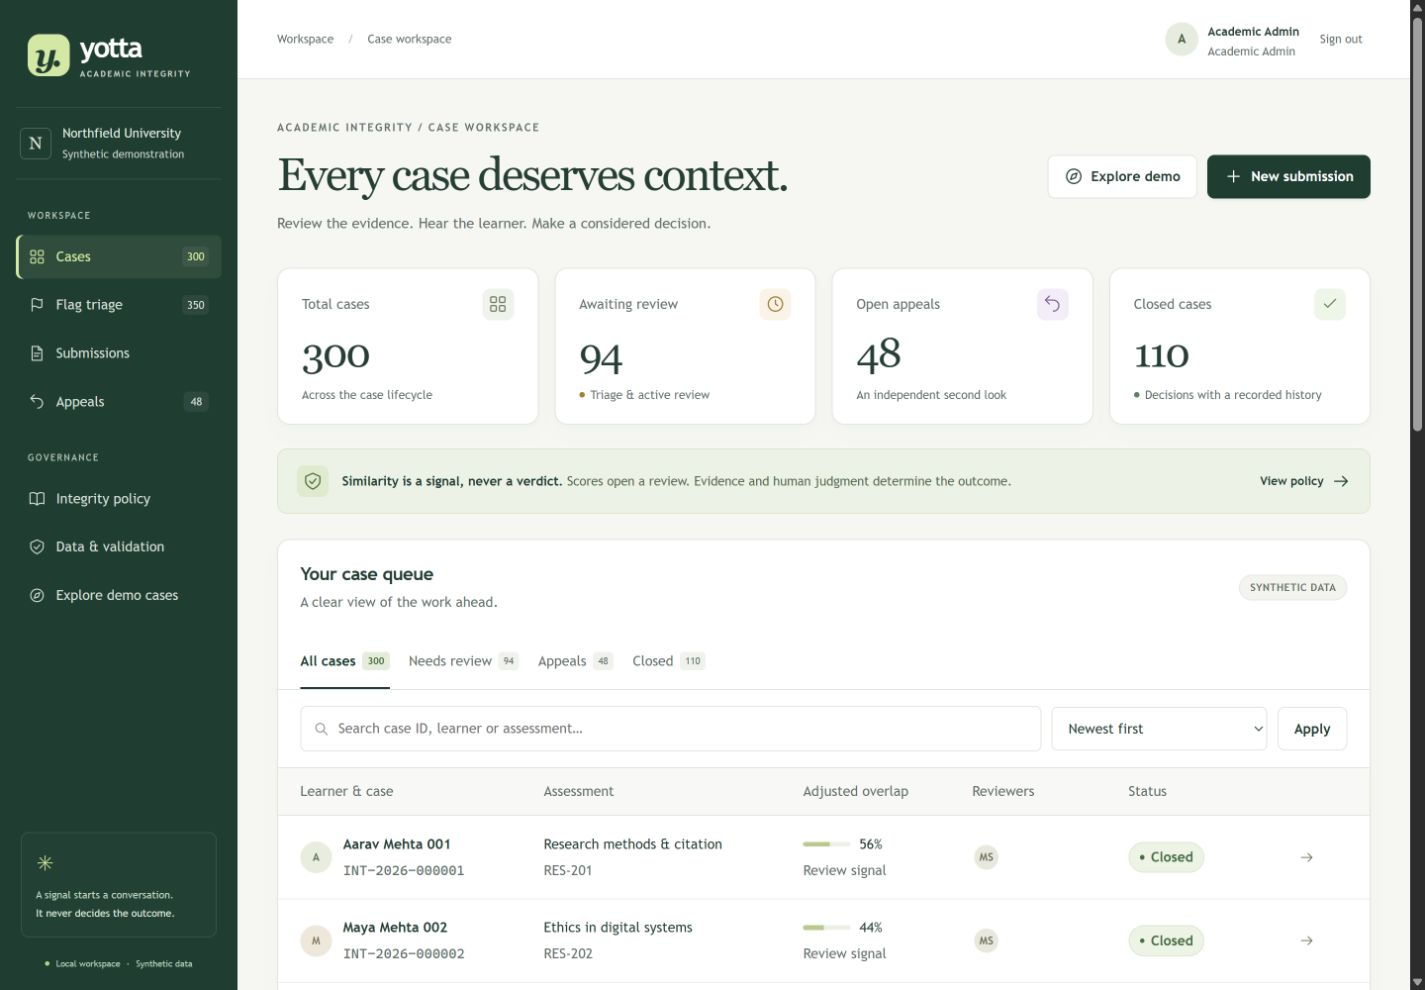
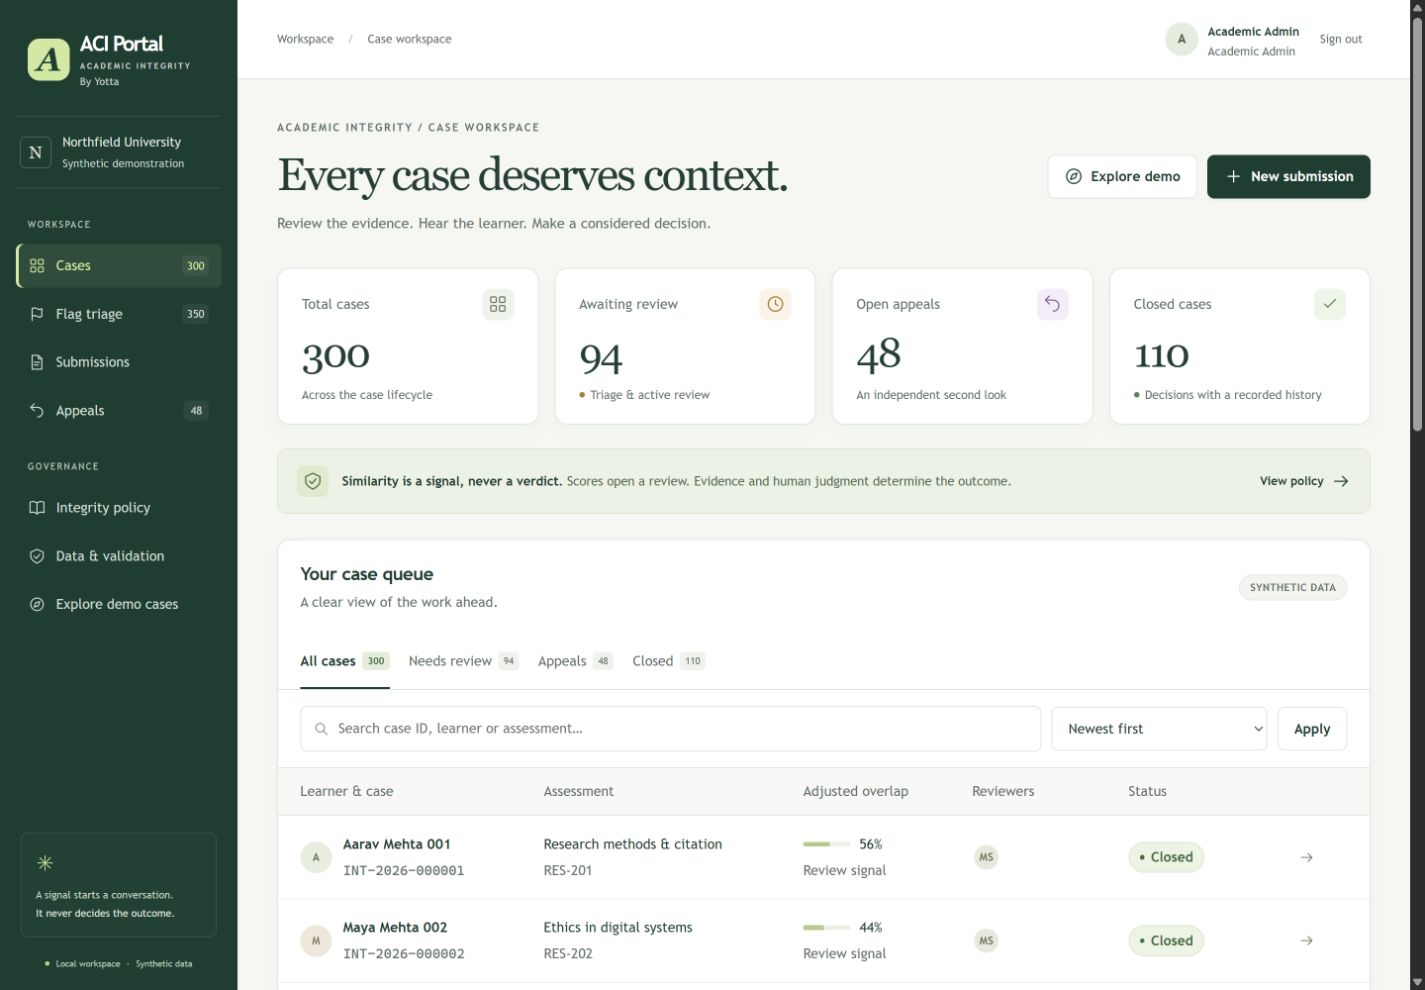
feat: rename application to ACI Portal By Yotta

diff --git a/templates/registration/login.html b/templates/registration/login.html
@@ -1,1 +1,1 @@
-{% extends 'base.html' %}{% block auth_content %}<div class="login-art"><a class="brand" href="{% url 'login' %}"><span class="brand-mark">y.</span><span>yotta<span class="brand-caption">ACADEMIC INTEGRITY</span></span></a><div class="login-statement"><span class="eyebrow">EVIDENCE. CONTEXT. FAIRNESS.</span><h1>Good judgment<br>starts with<br><em>a fair process.</em></h1><p>A thoughtful workspace for reviewing academic integrity, one case at a time.</p><div class="orbit" aria-hidden="true"><span>CONTEXT</span><span>EVIDENCE</span><span>REVIEW</span><b>y.</b></div></div><small>Northfield University · Synthetic demonstration</small></div><div class="login-panel"><div class="login-form"><span class="pill neutral">LOCAL WORKSPACE</span><h2>Welcome to Yotta.</h2><p class="muted">Sign in to your academic integrity workspace.</p><form method="post">{% csrf_token %}{% include 'integrity/fields.html' %}{% if next %}<input type="hidden" name="next" value="{{ next }}">{% endif %}<button class="button primary full" type="submit">Sign in {% include 'integrity/icon.html' with name='arrow' %}</button></form><div class="login-help"><strong>Here to explore the demo?</strong><p>Use <code>academic-admin</code> to start. Your launcher prints generated passwords and saves them in <code>.local/demo-accounts.json</code>.</p><p>Use separate accounts to try reviewer, learner, support, and independent appeal roles.</p></div><span class="fine-print">All records are synthetic. No external services are required.</span></div></div>{% endblock %}
+{% extends 'base.html' %}{% block auth_content %}<div class="login-art">{% include 'integrity/brand.html' with destination='login' %}<div class="login-statement"><span class="eyebrow">EVIDENCE. CONTEXT. FAIRNESS.</span><h1>Good judgment<br>starts with<br><em>a fair process.</em></h1><p>A thoughtful workspace for reviewing academic integrity, one case at a time.</p><div class="orbit" aria-hidden="true"><span>CONTEXT</span><span>EVIDENCE</span><span>REVIEW</span><b>ACI</b></div></div><small>Northfield University · Synthetic demonstration</small></div><div class="login-panel"><div class="login-form"><span class="pill neutral">LOCAL WORKSPACE</span><h2>Welcome to ACI Portal.</h2><p class="muted">Sign in to your academic integrity workspace.</p><form method="post">{% csrf_token %}{% include 'integrity/fields.html' %}{% if next %}<input type="hidden" name="next" value="{{ next }}">{% endif %}<button class="button primary full" type="submit">Sign in {% include 'integrity/icon.html' with name='arrow' %}</button></form><div class="login-help"><strong>Here to explore the demo?</strong><p>Use <code>academic-admin</code> to start. Your launcher prints generated passwords and saves them in <code>.local/demo-accounts.json</code>.</p><p>Use separate accounts to try reviewer, learner, support, and independent appeal roles.</p></div><span class="fine-print">All records are synthetic. No external services are required.</span></div></div>{% endblock %}

diff --git a/templates/base.html b/templates/base.html
@@ -1,11 +1,11 @@
 {% load static %}<!doctype html>
 <html lang="en"><head><meta charset="utf-8"><meta name="viewport" content="width=device-width,initial-scale=1">
-<title>{{ title|default:"Welcome" }} · Yotta</title><meta name="description" content="A considered approach to academic integrity. Local synthetic case-management workspace.">
+<title>{{ title|default:"Welcome" }} · ACI (Academic Integrity) Portal By Yotta</title><meta name="application-name" content="ACI (Academic Integrity) Portal By Yotta"><meta name="description" content="ACI (Academic Integrity) Portal By Yotta. A considered approach to academic integrity. Local synthetic case-management workspace.">
 <link rel="stylesheet" href="{% static 'app.css' %}"><script src="{% static 'app.js' %}" defer></script></head>
 <body><a class="skip-link" href="#main">Skip to content</a>
 {% if user.is_authenticated %}<div class="app-shell">
 <aside class="sidebar" aria-label="Workspace navigation">
-<a class="brand" href="{% url 'cases' %}"><span class="brand-mark" aria-hidden="true">y.</span><span>yotta<span class="brand-caption">ACADEMIC INTEGRITY</span></span></a>
+{% include 'integrity/brand.html' with destination='cases' %}
 <button class="nav-toggle button secondary" type="button" aria-expanded="false" aria-controls="workspace-nav">Menu</button>
 <div class="workspace-label"><span class="workspace-symbol" aria-hidden="true">N</span><span>Northfield University<small>Synthetic demonstration</small></span></div>
 <nav id="workspace-nav" aria-label="Main"><span class="nav-label">WORKSPACE</span>
@@ -21,6 +21,6 @@
 <div class="local-label"><span class="live-dot"></span> Local workspace <span>·</span> Synthetic data</div></div></aside>
 <div class="content-shell"><header class="topbar"><div class="breadcrumbs">Workspace <span>/</span> {{ title }}</div><div class="identity"><span class="avatar">{{ user.username|first|upper }}</span><div><strong>{{ user.first_name|default:user.username }}</strong><small>{{ role_label }}</small></div><form method="post" action="{% url 'logout' %}">{% csrf_token %}<button class="text-button" type="submit">Sign out</button></form></div></header>
 <main id="main" class="main" tabindex="-1">{% for message in messages %}<div class="toast {{ message.tags }}" role="status">{% include 'integrity/icon.html' with name='check' %} {{ message }}</div>{% endfor %}{% block content %}{% endblock %}</main>
-<footer class="page-footer"><span>Yotta · A considered approach to academic integrity.</span><span>Local demo / All records are synthetic</span></footer></div></div>
+<footer class="page-footer"><span>ACI (Academic Integrity) Portal By Yotta</span><span>Local demo / All records are synthetic</span></footer></div></div>
 {% else %}<main id="main" class="auth-main" tabindex="-1">{% block auth_content %}{% endblock %}</main>{% endif %}
 </body></html>

diff --git a/static/app.css b/static/app.css
@@ -1,4 +1,4 @@
-/* Yotta: a warm institutional ledger. All assets are local; no build step. */
+/* ACI Portal By Yotta: a warm institutional ledger. All assets are local. */
 :root {
   --ink: #263e35;
   --forest: #203d32;
@@ -191,6 +191,17 @@ pre {
   font: italic 700 2.05rem Georgia;
   letter-spacing: -0.15em;
   padding-right: 0.3rem;
+}
+.brand-name {
+  font-size: 1.35rem;
+}
+.brand-byline {
+  display: block;
+  margin-top: 0.35rem;
+  font-size: 0.65rem;
+  font-weight: 400;
+  letter-spacing: 0.02em;
+  color: #c2d0c5;
 }
 .brand-caption {
   display: block;

diff --git a/templates/integrity/brand.html b/templates/integrity/brand.html
@@ -1,0 +1,4 @@
+<a class="brand" href="{% url destination %}" aria-label="ACI (Academic Integrity) Portal By Yotta">
+  <span class="brand-mark" aria-hidden="true">A</span>
+  <span class="brand-name">ACI Portal<span class="brand-caption">ACADEMIC INTEGRITY</span><span class="brand-byline">By Yotta</span></span>
+</a>

diff --git a/run.py b/run.py
@@ -58,7 +58,7 @@ def main():
     execute([python, "manage.py", "migrate", "--noinput"], env)
     execute([python, "manage.py", "seed_demo", "--mode", args.mode], env)
     credentials = json.loads((local / "demo-accounts.json").read_text(encoding="utf-8"))
-    print("\nYotta / local synthetic workspace\n", flush=True)
+    print("\nACI (Academic Integrity) Portal By Yotta / local synthetic workspace\n", flush=True)
     for username, password in credentials.items():
         print(f"  {username:18} {password}", flush=True)
     print(f"\nCredentials: {local / 'demo-accounts.json'} (keep private)\n", flush=True)
@@ -71,7 +71,7 @@ if __name__ == "__main__":
     try:
         raise SystemExit(main())
     except KeyboardInterrupt:
-        print("\nYotta stopped. Your data is preserved.")
+        print("\nACI Portal stopped. Your data is preserved.")
     except (subprocess.CalledProcessError, OSError) as exc:
         print(f"\nSetup could not finish: {exc}\nFix the error above and rerun the same command; existing data is preserved.", file=sys.stderr)
         raise SystemExit(1)

diff --git a/docs/ai/PROMPT_HISTORY.md b/docs/ai/PROMPT_HISTORY.md
@@ -57,3 +57,11 @@ User prompt (verbatim):
 > I have analyzed the problem statement and assignment, go through docs and project prompt and start building the project component by component, and document all the thing and keep the repo clean as possible, as I have initialized /Yotta directory added a initial readme file and connected my remote public repository, move all the supporting docs if need to /Yotta, the reviewer will only have access to /Yotta.
 
 AI assistance: implemented the local application and dataset/evaluation tooling in Yotta, consolidated supporting documentation, ran checks and browser verification, and recorded results/limitations in VERIFICATION.md. See AI_USE.md for reliance and candidate-review status. Tool prompts/queries are summarized in IMPLEMENTATION_TOOL_LOG.md; exact tool payloads remain in the chat export and are not fully reproduced here. This record remains partial, with private material visibly redacted above.
+
+## 2026-10-30 - Codex - portal name
+
+User prompt (verbatim):
+
+> Change name to ACI (Academic Integrity) Portal By Yotta, it'll be good
+
+AI assistance: renamed the shared interface brand, login, browser metadata, footer, launcher display text and README. Ran the existing page-render check and Django system check; inspected desktop/phone layouts and refreshed branding screenshots. Repository/database paths remain stable so this display-name change preserves local configuration and records. This remains a partial prompt record; exact tool actions are available in the chat history.

diff --git a/docs/VERIFICATION.md b/docs/VERIFICATION.md
@@ -61,3 +61,7 @@ Interface-polish review scope: Django templates/plain CSS, primary queue/case fl
 Unauthenticated read-only HTTPS request to the configured GitHub repository returned **200**, its expected repository title, and a **Public** label. This verifies existing public access without an authenticated GitHub session. The new implementation is committed locally; it has not been pushed or submitted through the portal in this task.
 
 Still unverified: normal-install bootstrap on Python 3.12/3.13/3.14; macOS/Linux startup; literal network-disconnected workflow (assets/code have no external runtime dependencies, but no network adapter was disabled); dependency-install failure recovery by forced outage; missing-Python/version error simulation; sustained concurrent load; complete browser walkthrough using every role; candidate personal review; complete prompt export reconciliation; final comparison with absent source attachments; remote publication and portal submission.
+
+## Branding follow-up
+
+Renamed to **ACI (Academic Integrity) Portal By Yotta** at the user's request. `manage.py check` and the existing `test_all_pages_render_and_search_pagination_preserve_context` check passed on Python 3.14.10. Browser login/tab title and workspace branding were verified at desktop 1440×1000 and phone 375×812. Updated the desktop screenshot and added [phone branding](screenshots/branding-phone.png). Other original workflow screenshots retain their historical branding. No new schema or dataset changes were required.

diff --git a/docs/DEVELOPMENT.md b/docs/DEVELOPMENT.md
@@ -33,3 +33,7 @@ Meaningful local commits group workflow/interface, data/tests/proof, and documen
 ## Remaining handoff work
 
 Candidate must personally review, run and explain the implementation, and record that honestly. Reconcile the partial prompt record with complete exports from every AI tool used and compare requirements against original attachments. The local implementation has not been pushed; publish the reviewed local commits before portal submission. Verify the public remote after publication, then submit its URL under the invitation's instructions before the deadline. See VERIFICATION.md for exact platform/testing limitations.
+
+## 2026-10-30 — portal branding
+
+User selected **ACI (Academic Integrity) Portal By Yotta**. A shared brand template now supplies the sidebar and login identity, with the expanded name in accessible labels/browser metadata/footer, and matching launcher/README display text. Existing technical paths remain stable. Django checks and the existing page-render test passed; desktop (1440×1000) and phone (375×812) branding were inspected. Refreshed the README desktop screenshot and added a phone branding screenshot; earlier workflow screenshots remain historical verification evidence.

diff --git a/README.md b/README.md
@@ -1,10 +1,10 @@
-# Yotta · Academic integrity, with context
+# ACI (Academic Integrity) Portal By Yotta
 
 A local workspace that takes synthetic similarity flags through human triage, evidence review, reasoned decisions, and independent appeals. A score starts a review; it never decides guilt.
 
 Built with Django, SQLite, and responsive custom templates. Everything required to run and review the project is in this repository; nothing depends on its parent directory.
 
-![Yotta workspace](docs/screenshots/workspace-desktop.png)
+![ACI Portal By Yotta workspace](docs/screenshots/workspace-desktop.png)
 
 ## Run locally
 
